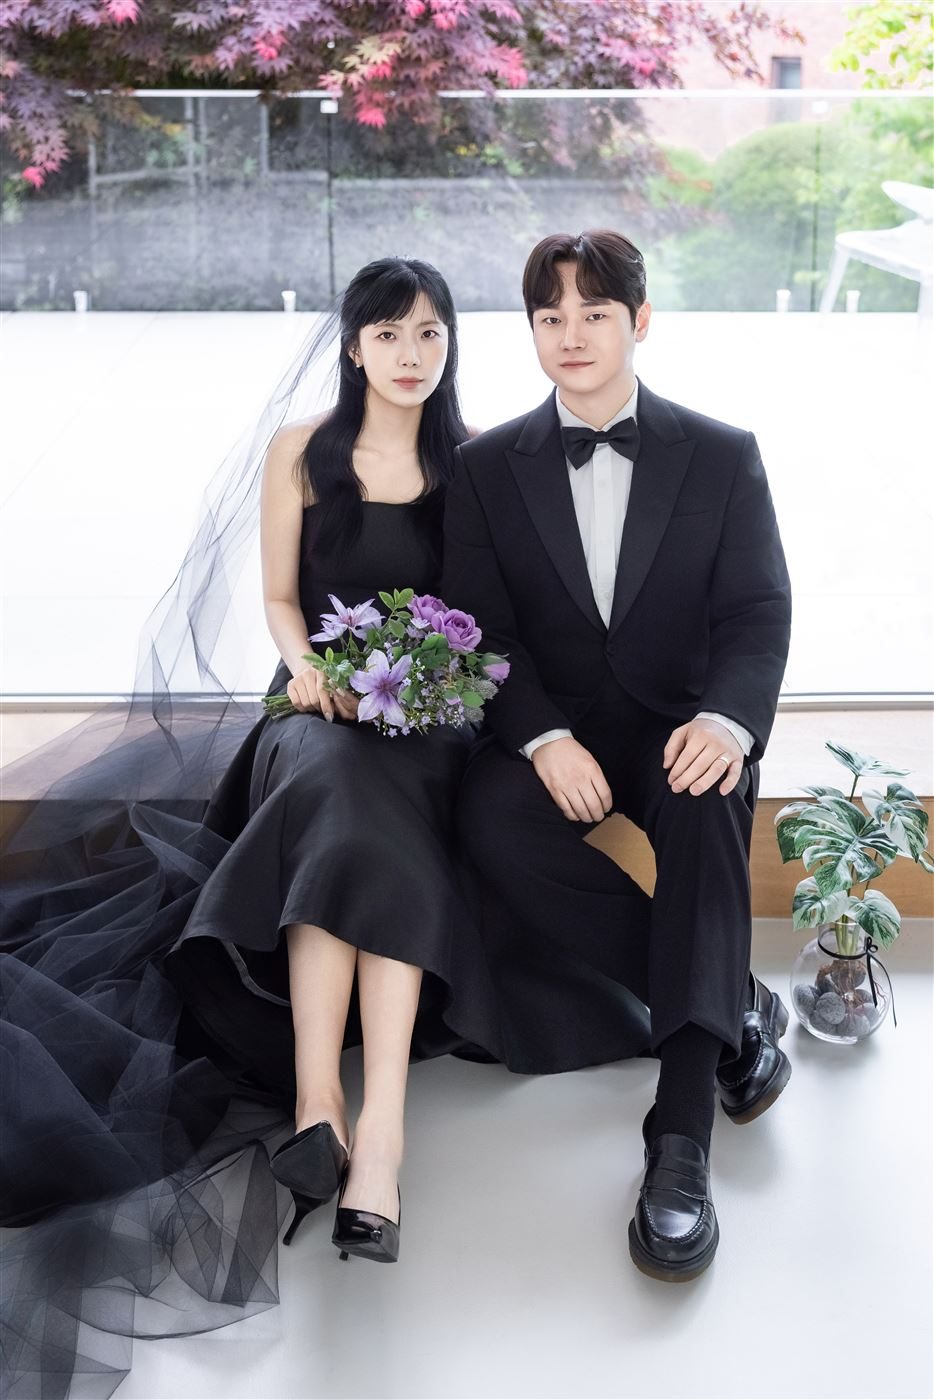
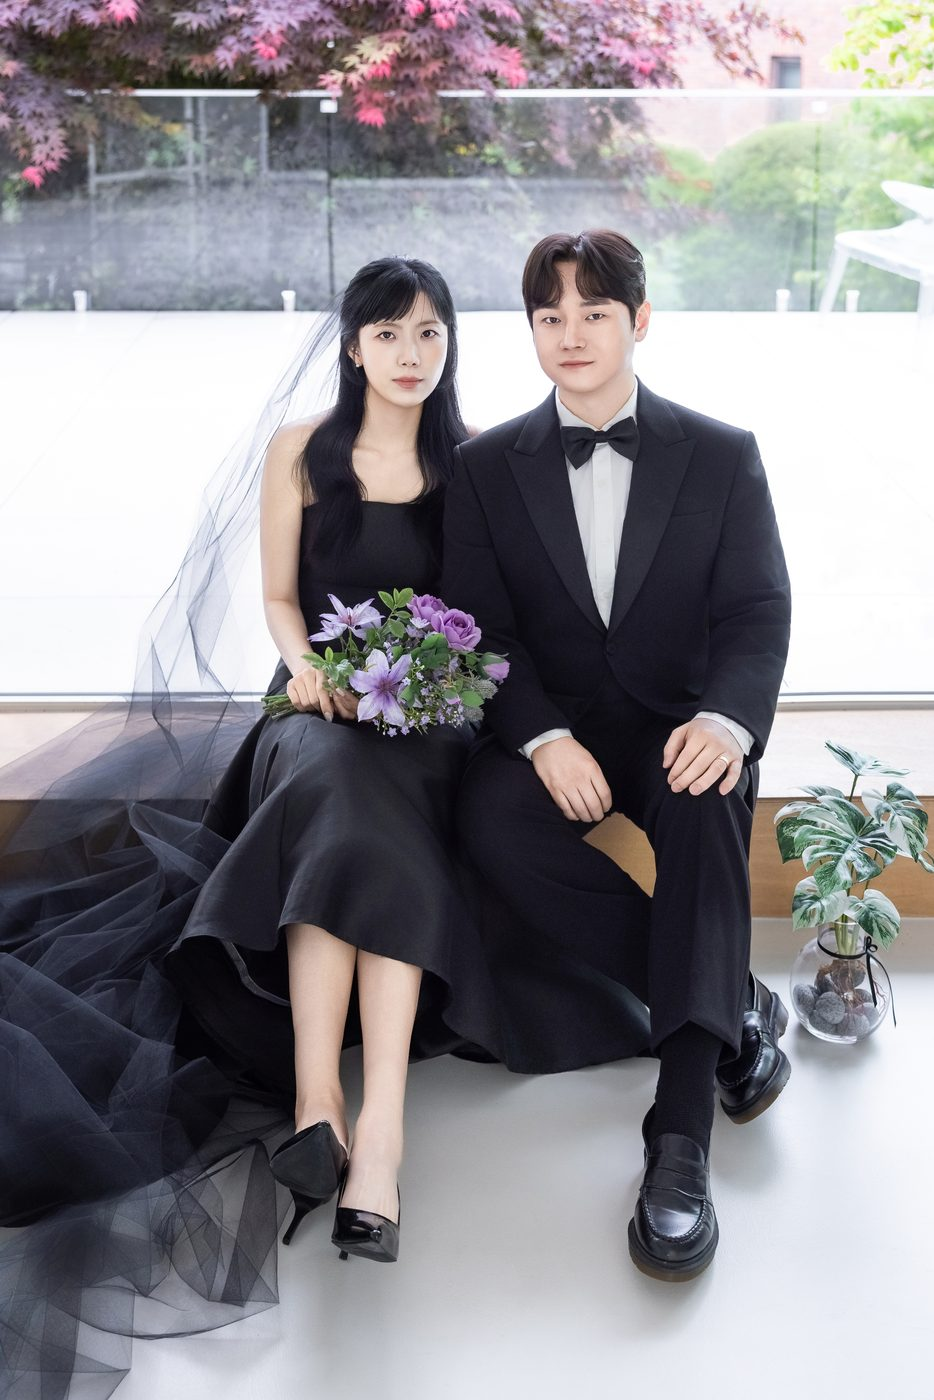
수정본2차 사진을 갤러리에 추가하고 사진 빌드를 스크립트화
- 008A4730 수정본2차를 갤러리 7번째 사진으로 추가 (photos/17.jpg)
- build-photos.py 추가: 같은 사진에 여러 수정본이 있으면 항상 최신 차수만
  사용하므로, 새 수정본을 pictures/ 에 넣고 재실행해도 사진 번호가 밀리지 않음
- 웹용 이미지를 원본에서 일괄 재생성 (재인코딩이 아니라 원본 기준이라 화질 손실 없음)
- photos-all/ 은 갤러리 교체용 전체 보관본으로 gitignore 처리

diff --git a/index.html b/index.html
@@ -988,8 +988,11 @@
         <div class="gallery-slide">
           <img src="photos/16.jpg" alt="Photo 6" loading="lazy">
         </div>
+        <div class="gallery-slide">
+          <img src="photos/17.jpg" alt="Photo 7" loading="lazy">
+        </div>
       </div>
-      <p class="gallery-counter"><span id="gallery-current">1</span> / <span id="gallery-total">6</span></p>
+      <p class="gallery-counter"><span id="gallery-current">1</span> / <span id="gallery-total">7</span></p>
     </div>
   </section>
 

diff --git a/build-photos.py b/build-photos.py
@@ -1,0 +1,94 @@
+# -*- coding: utf-8 -*-
+"""pictures/ 원본 -> 웹용 이미지 생성.
+
+같은 사진의 수정본이 여러 개 있으면 항상 최신 차수만 사용하므로,
+새 수정본을 pictures/ 에 넣고 다시 실행해도 사진 번호가 밀리지 않는다.
+
+  photos-all/NN.jpg  전체 사진 (gitignore, 갤러리 교체용 보관)
+  photos/NN.jpg      index.html 이 실제로 쓰는 사진만
+  photos/og.jpg      카카오톡 공유 미리보기용 1200x630
+"""
+import os, re, shutil, unicodedata
+from PIL import Image, ImageOps
+
+SRC        = 'pictures'
+ALL_DIR    = 'photos-all'
+WEB_DIR    = 'photos'
+SELECTED   = ['01', '03', '07', '15', '11', '16', '17']   # index.html 갤러리 순서 (17=수정본2차)
+MAX_DIM    = 1400
+QUALITY    = 82
+OG_SIZE    = (1200, 630)
+OG_FACE_Y  = 0.23   # 세로 원본에서 얼굴이 오는 위치
+OG_FACE_AT = 0.40   # 크롭 안에서 얼굴을 놓을 위치
+
+
+def revision(name):
+    """'수정본2차' -> 2, 차수 표기가 없으면 0."""
+    m = re.search(r'수정본(\d+)차', unicodedata.normalize('NFC', name))
+    return int(m.group(1)) if m else 0
+
+
+def photo_code(name):
+    """확장자와 수정본 표기를 뺀 사진 식별자."""
+    return re.split(r'\s*수정본', unicodedata.normalize('NFC', name))[0]
+
+
+def latest_originals():
+    best = {}
+    for f in os.listdir(SRC):
+        if not f.lower().endswith('.jpg'):
+            continue
+        code = photo_code(f)
+        if code not in best or revision(f) > revision(best[code]):
+            best[code] = f
+    # 액자메인(숫자로 시작하지 않는 이름)을 01번으로, 나머지는 이름순
+    return sorted(best.values(), key=lambda f: (bool(re.match(r'^\d', f)), f))
+
+
+def resize(im, max_dim):
+    ratio = min(1.0, max_dim / max(im.size))
+    if ratio == 1.0:
+        return im.copy()
+    return im.resize((round(im.width * ratio), round(im.height * ratio)), Image.LANCZOS)
+
+
+def make_og(im, path):
+    w = im.width
+    h = round(w * OG_SIZE[1] / OG_SIZE[0])
+    top = max(0, min(im.height - h, round(im.height * OG_FACE_Y) - round(h * OG_FACE_AT)))
+    im.crop((0, top, w, top + h)).resize(OG_SIZE, Image.LANCZOS).save(path, quality=85, optimize=True)
+
+
+def main():
+    os.makedirs(ALL_DIR, exist_ok=True)
+    os.makedirs(WEB_DIR, exist_ok=True)
+
+    originals = latest_originals()
+    mapping = []
+    for i, name in enumerate(originals, 1):
+        im = ImageOps.exif_transpose(Image.open(os.path.join(SRC, name)))
+        num = '%02d' % i
+        resize(im, MAX_DIM).save(os.path.join(ALL_DIR, num + '.jpg'), quality=QUALITY, optimize=True)
+        if i == 1:
+            make_og(im, os.path.join(WEB_DIR, 'og.jpg'))
+        mapping.append((num, revision(name), photo_code(name)))
+        im.close()
+
+    # index.html 이 쓰는 사진만 photos/ 로
+    for f in os.listdir(WEB_DIR):
+        if re.fullmatch(r'\d{2}\.jpg', f) and f[:2] not in SELECTED:
+            os.remove(os.path.join(WEB_DIR, f))
+    for num in SELECTED:
+        shutil.copy2(os.path.join(ALL_DIR, num + '.jpg'), os.path.join(WEB_DIR, num + '.jpg'))
+
+    print('%-4s %-5s %-14s %s' % ('NO', 'REV', 'PHOTO', 'IN GALLERY'))
+    for num, rev, code in mapping:
+        print('%-4s %-5s %-14s %s' % (num, 'rev%d' % rev if rev else '-',
+                                      code.replace('액자메인', 'MAIN-'),
+                                      'YES' if num in SELECTED else ''))
+    print('\n전체 %d장 -> %s/, 사이트 사용 %d장 -> %s/'
+          % (len(mapping), ALL_DIR, len(SELECTED), WEB_DIR))
+
+
+if __name__ == '__main__':
+    main()
